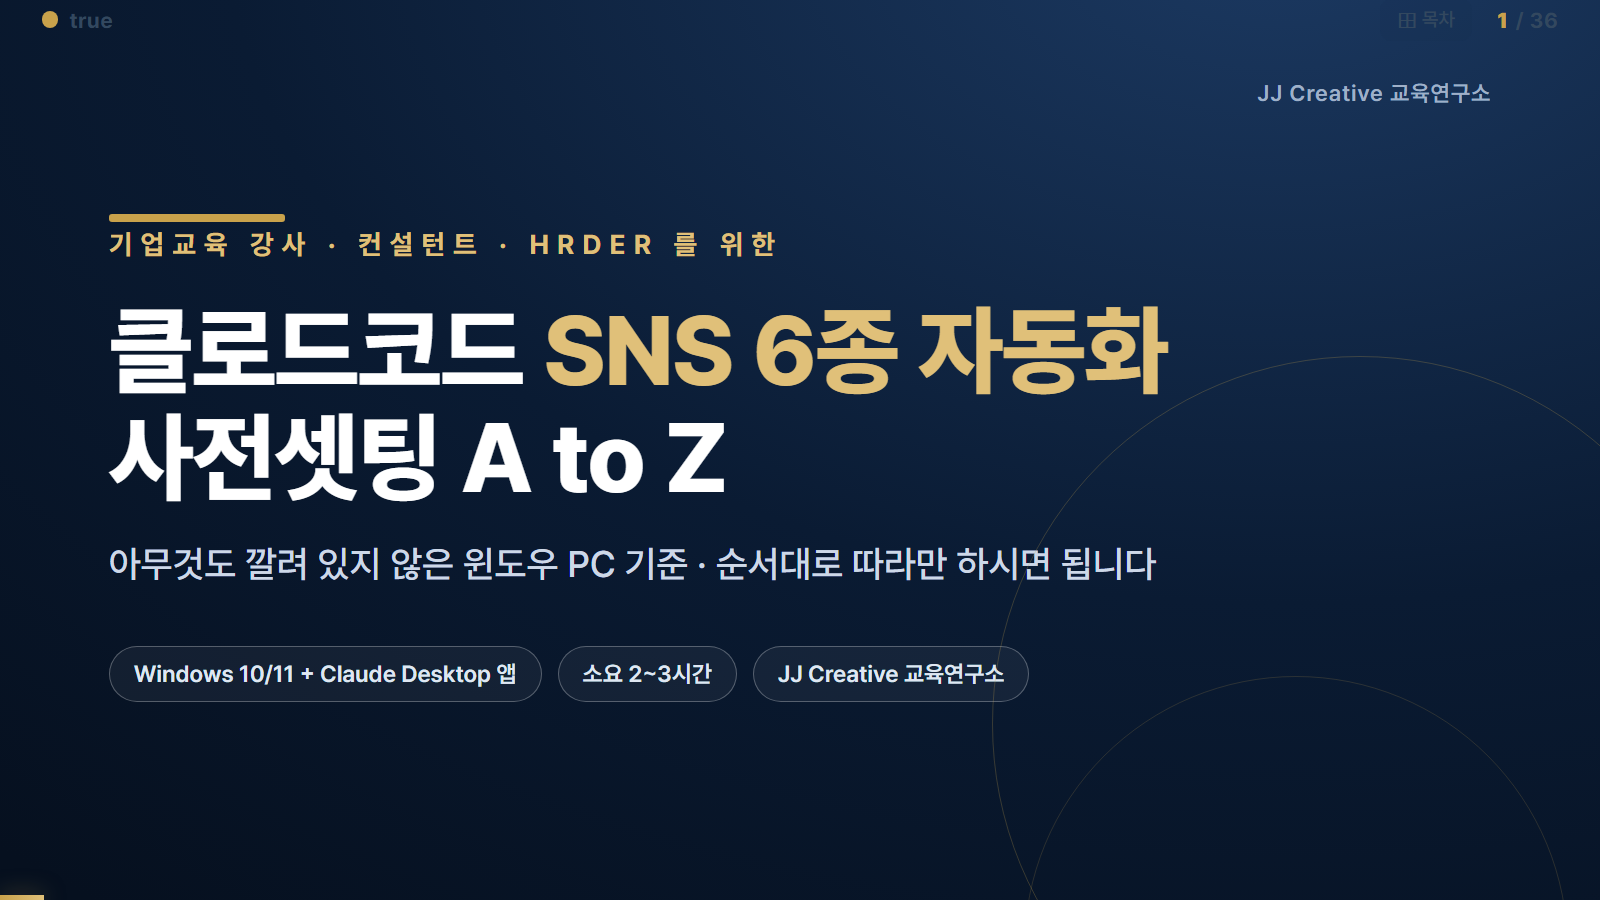
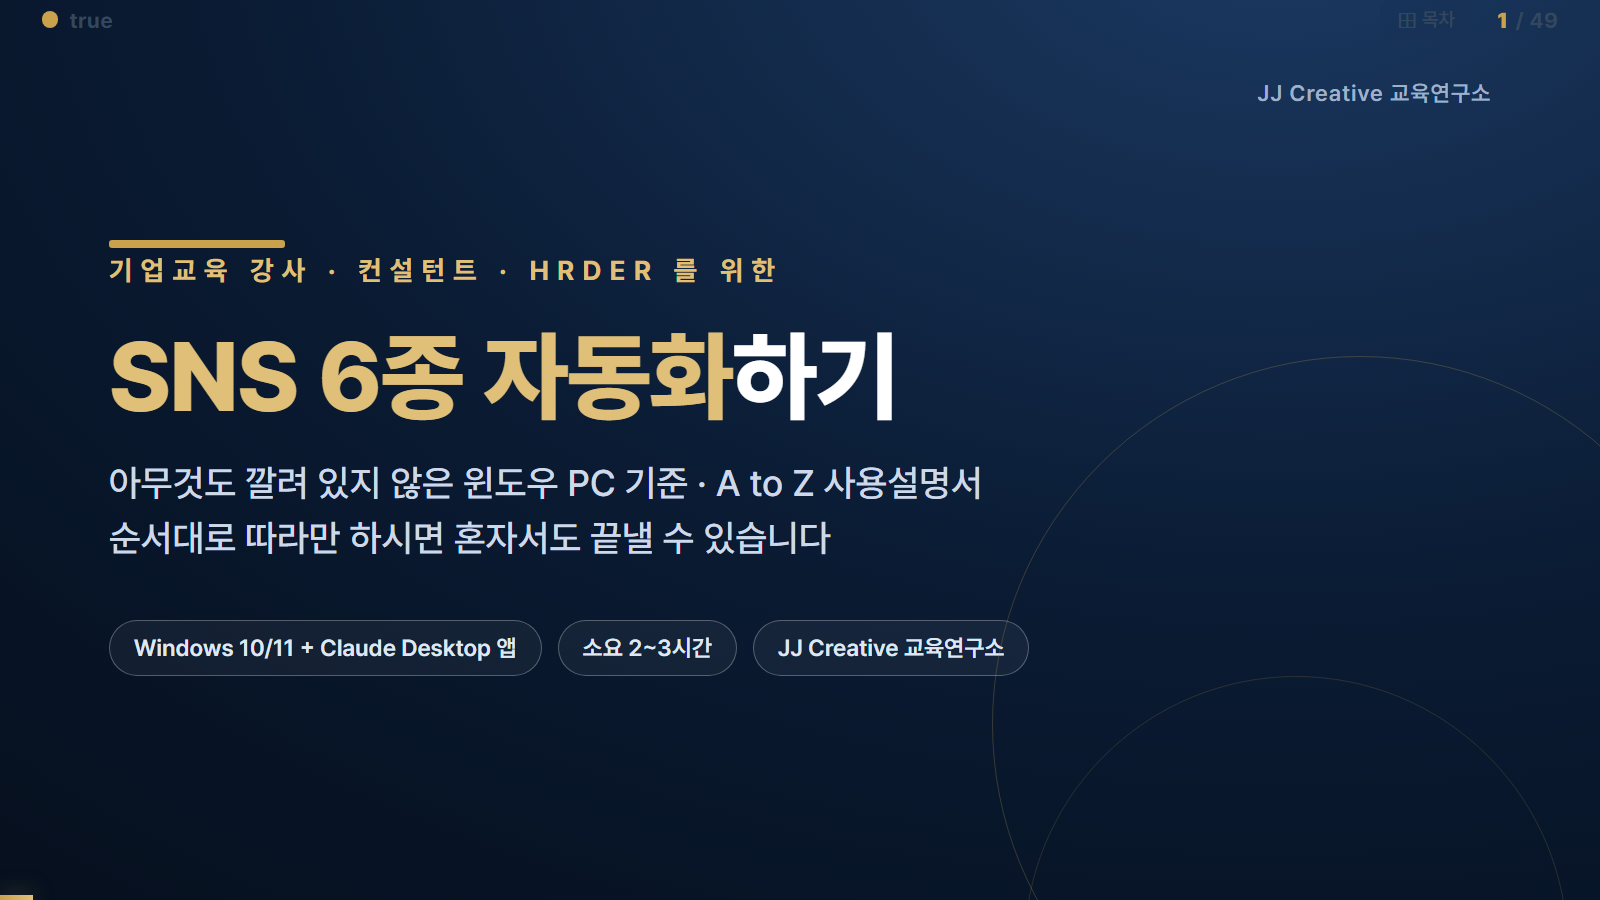
fix: tocFirst 를 문자열로 (표지에 true 표시되던 문제)

diff --git a/data.js b/data.js
@@ -2,7 +2,7 @@ window.CFG = {
   title: "SNS 6종 자동화하기",
   brand: "JJ Creative 교육연구소",
   footer: "JJ Creative 교육연구소 · SNS 6종 자동화하기 · 사용설명서",
-  tocFirst: true,
+  tocFirst: "시작하기",
 };
 
 window.IMG = {
